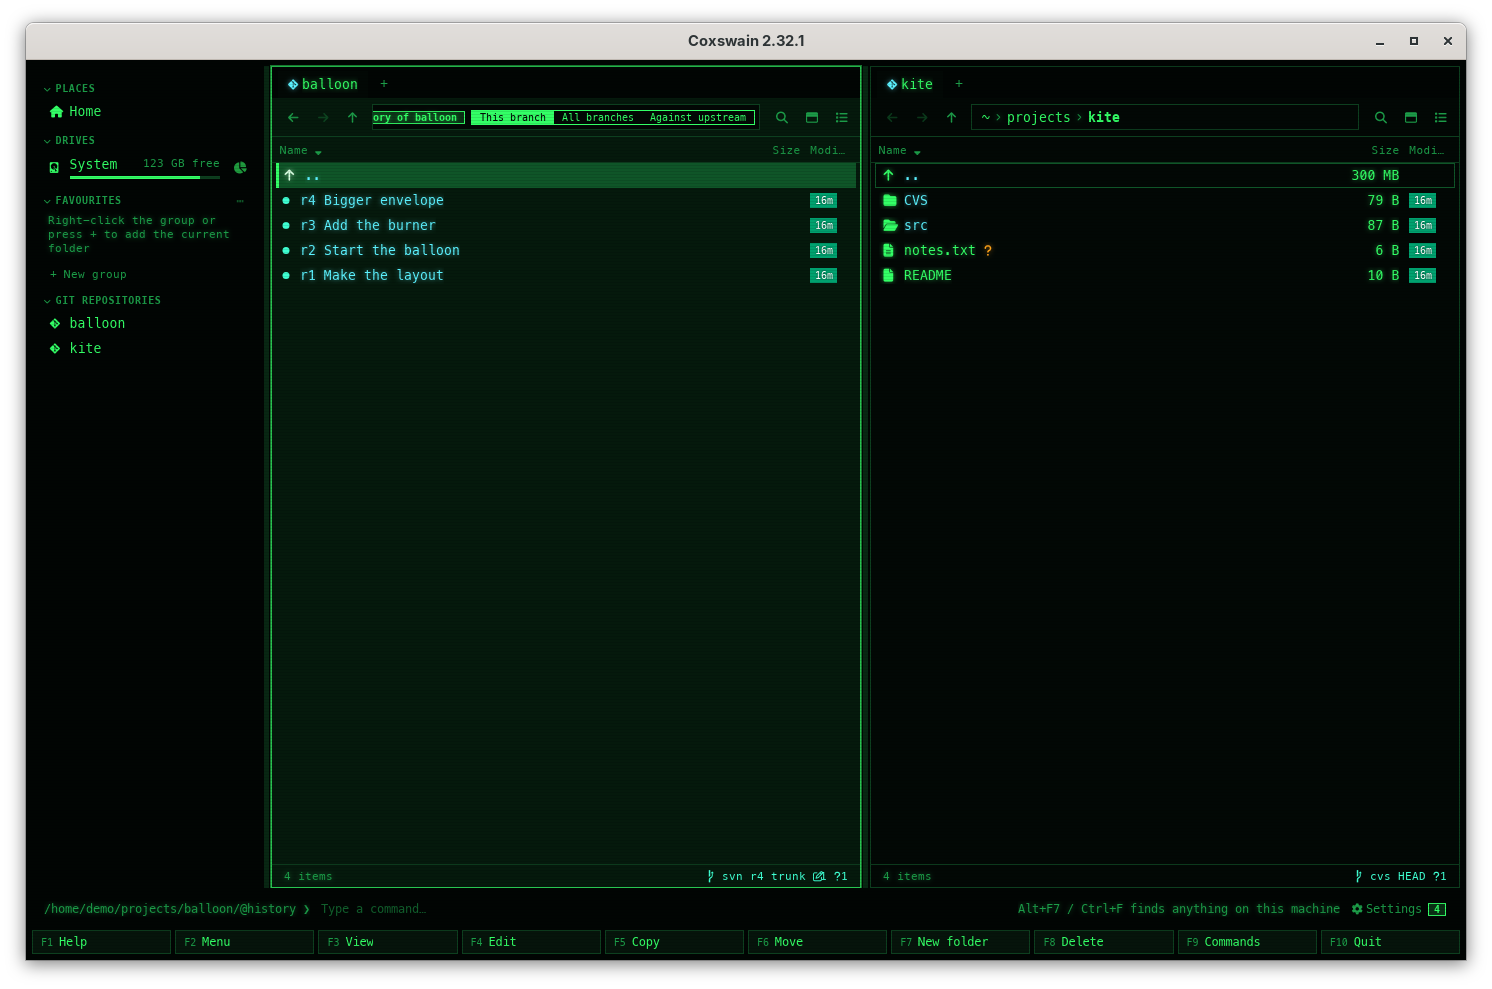
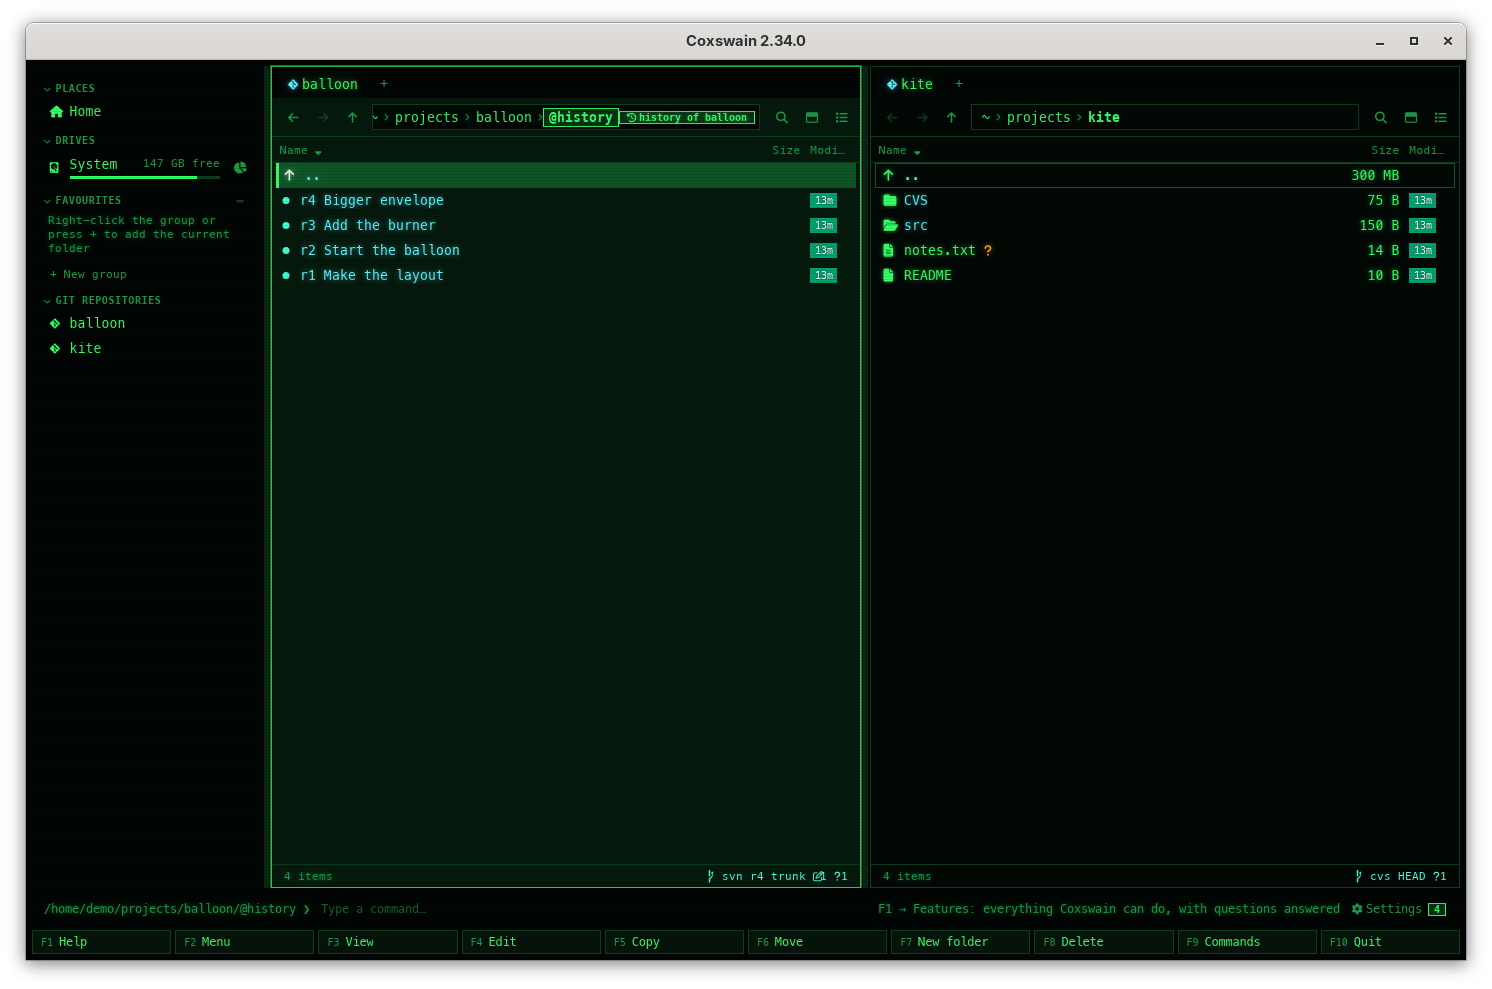
Subversion history: a server that refuses or cannot be reached names its reason (svn starts its XML before it fails); svn-history and tui-cvs-history retaken

diff --git a/crates/coxswain-core/src/wc.rs b/crates/coxswain-core/src/wc.rs
@@ -651,7 +651,7 @@ fn from_server(c: std::process::Command, max: usize) -> io::Result<(Vec<u8>, boo
 }
 
 /// As `from_server`, but a run that fails is an error even after it printed part: a file's
-/// bytes, a listing of what is copied out.
+/// bytes, a listing of what is copied out, Subversion's XML (begun before svn fails).
 fn file_from_server(c: std::process::Command, max: usize) -> io::Result<(Vec<u8>, bool)> {
     let mut buf = vec![];
     match run_server(c, &mut buf, max)? {
@@ -900,7 +900,8 @@ fn svn_log(base: &Path, spec: &str, max: usize) -> io::Result<(Vec<Commit>, bool
     c.current_dir(base).args(["log", "--xml", "--limit", &(max + 1).to_string(), "--"]);
     // A trailing `@`: a name with `@` in it is never taken for a revision.
     c.arg(format!("{spec}@"));
-    let (out, cut) = from_server(c, SERVER_MAX)?;
+    // svn starts its XML before it fails (a password it lacks, a server gone): a failure is one.
+    let (out, cut) = file_from_server(c, SERVER_MAX)?;
     let mut commits = parse_svn_log(&out);
     let more = cut || commits.len() > max;
     commits.truncate(max);
@@ -1014,7 +1015,7 @@ impl Vcs for Svn {
         let (repo, ..) = svn_here(base)?;
         let mut c = svn();
         c.args(["log", "--xml", "-r", &n.to_string(), "--limit", "1", "--", &format!("{repo}@{n}")]);
-        let found = parse_svn_log(&from_server(c, 1 << 20)?.0);
+        let found = parse_svn_log(&file_from_server(c, 1 << 20)?.0);
         seen(base, &found);
         found.into_iter().next().ok_or_else(|| no_commit(rev))
     }
@@ -1022,7 +1023,7 @@ impl Vcs for Svn {
         let n = svn_rev(rev)?;
         let mut c = svn();
         c.args(["list", "--xml", "--", &svn_url_at(base, n, inner)?]);
-        let (xml, _) = from_server(c, SERVER_MAX)?;
+        let (xml, _) = file_from_server(c, SERVER_MAX)?;
         Ok(parse_svn_list(&xml)
             .into_iter()
             .filter(|(name, ..)| name_ok(name))

diff --git a/changelog.d/history-scopes-git-only.md b/changelog.d/history-scopes-git-only.md
@@ -1,1 +1,1 @@
-| **Subversion, CVS, Mercurial and Jujutsu histories no longer offer git's All branches and Against upstream.** Their list shows no such buttons (desktop app) or key in its title (terminal app), and **Alt+A** and **Alt+Y** say on the status line that those are git's. | [Subversion working copies](panels/subversion.md#history-from-the-server) |
+| **Subversion and CVS histories say why a server refused, and offer no git-only scopes.** A Subversion server that wants a password you have not saved, or that cannot be reached, now names the reason on the status line instead of showing an empty list; the histories of Subversion, CVS, Mercurial and Jujutsu no longer show *All branches* and *Against upstream* (desktop app) or that key in their title (terminal app), and **Alt+A** and **Alt+Y** say those are git's. | [Subversion working copies](panels/subversion.md#history-from-the-server) |

diff --git a/docs/panels/cvs.md b/docs/panels/cvs.md
@@ -79,7 +79,7 @@ read; `-d`: the root of the folder asked about, for every folder below too, what
 - **A file's history** is the commits of its folder that touched it, so a commit has the same
   name in both.
 
-![The terminal app's kite/@history after the yes: 931c59a Spar a little longer, f5ba70a Longer spar, red sail, e2921d6 Initial revision and 927fee3 Start the kite, newest first](../screenshots/tui-cvs-history.png)
+![The terminal app's kite/@history after the yes: 1d6dd92 Spar a little longer, 672e4cb Longer spar, red sail, 2287482 Initial revision and 055056e Start the kite, newest first](../screenshots/tui-cvs-history.png)
 
 ## Inside a commit
 
